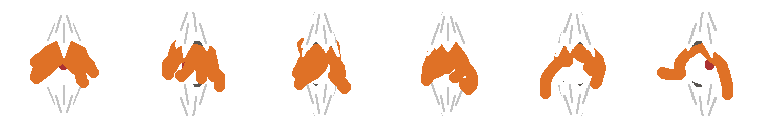
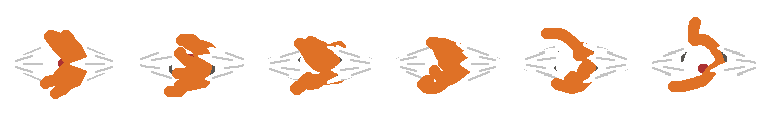
ファンネルのアニメーション(仮)追加

diff --git a/DirectXGame/BossFunnel.cpp b/DirectXGame/BossFunnel.cpp
@@ -3,7 +3,7 @@
 #include "MyMath.h"
 #include <cassert>
 #include <cmath>
-
+#include "Animation.h"
 void BossFunnel::Initialize(uint32_t texture, int type, Vector2& startPos, Vector2& endPos) 
 {
 	// イージング用の座標
@@ -29,14 +29,19 @@ void BossFunnel::Initialize(uint32_t texture, int type, Vector2& startPos, Vecto
 	// 初期化
 	texture_ = texture;
 	pos_ = startPos;
+	animationTimer = 0;
+	animationNumber = 0;
+	animationScene = 6;
+	oneTime = 5;
+	isAnimation = true;
 
 	// スプライトの生成
 	sprite_.reset(Sprite::Create(texture, pos_, {1.0f, 0.0f, 0.0f, 1.0f}, {0.5f, 0.5f}));
 	// サイズ設定
-	sprite_->SetSize({64.0f, 64.0f});
-	radius_ = sprite_->GetSize().x / 2;
-	Vector2 rotateVect = endPos_ - prevPos_;
-	sprite_->SetRotation(std::atan2(rotateVect.y, rotateVect.x));
+	radius_ = 64.0f;
+	sprite_->SetSize({radius_ * 2, radius_ * 2});
+	direction_ = endPos_ - prevPos_;
+	sprite_->SetRotation(std::atan2(direction_.y, direction_.x));
 }
 
 void BossFunnel::Update(Vector2& playerPos) {
@@ -88,17 +93,18 @@ void BossFunnel::Update(Vector2& playerPos) {
 			break;
 		}
 		// 向きの回転
-		Vector2 rotateVect = endPos_ - prevPos_;
-		sprite_->SetRotation(std::atan2(rotateVect.y, rotateVect.x));
+		direction_ = endPos_ - prevPos_;
+		//sprite_->SetRotation(std::atan2(direction_.y, direction_.x));
 		if (turnCount_ == 2) {
 			kMoveSpeed_ = kInitSpeed;
 		}
 	}
-	
+	Animation::Anime(animationTimer, animationNumber, animationScene, oneTime);
+
 	BaseBullet::Update();
 }
 
-void BossFunnel::Draw() { sprite_->Draw(); }
+void BossFunnel::Draw() { BaseBullet::Draw(); }
 
 void BossFunnel::OnCollision() 
 { isDead_ = true; }

diff --git a/DirectXGame/BaseBullet.cpp b/DirectXGame/BaseBullet.cpp
@@ -2,6 +2,7 @@
 #include <cassert>
 #include "Scroll.h"
 #include "TextureManager.h"
+#include "Animation.h"
 
 /// <summary>
 /// 初期化処理
@@ -21,8 +22,7 @@ void BaseBullet::Initialize(uint32_t texture, const Vector2& pos, Vector2 velosi
 void BaseBullet::Update() {
 	// スクロールのインスタンス取得
 	Scroll* scroll = Scroll::GetInstance();
-	//Vector2 ScreenPos;
-//	ScreenPos += ;
+
 	sprite_->SetRotation(std::atan2(direction_.y, direction_.x));
 	// スプライトの位置を設定
 	sprite_->SetPosition(pos_ - scroll->GetAddScroll() + sceneVelo);
@@ -33,7 +33,11 @@ void BaseBullet::Update() {
 /// </summary>
 void BaseBullet::Draw() { 
 	// スプライトの描画処理
-	sprite_->Draw();
+	if (!isAnimation) {
+		sprite_->Draw();
+	} else if (isAnimation) {
+		Animation::DrawAnimation(sprite_.get(), pos_, animationNumber, texture_);
+	}
 }
 
 /// <summary>

diff --git a/DirectXGame/Tail.cpp b/DirectXGame/Tail.cpp
@@ -42,7 +42,7 @@ void Tail::Initialize(uint32_t texture, const Vector2* parent, int tailNo, const
 	    Sprite::Create(charaTex_, {-10.0f, -10.0f}, {1.0f, 1.0f, 1.0f, 1.0f}, {0.5f, 0.5f}));
 
 	// 半径
-	radius_ = 64.0f;
+	radius_ = 48.0f;
 	sprite_->SetSize({radius_ * 2, radius_ * 2});
 }
 
@@ -158,7 +158,7 @@ void Tail::Fire() {
 		// 当たり判定の計算
 		float distance =
 		    std::sqrtf(std::powf(Tail2Marker_distance.x, 2) + std::powf(Tail2Marker_distance.y, 2));
-		float radius = (8 + GetRadius());
+		float radius = (2 + GetRadius());
 
 		if (!player_->IsMove()) {
 			// もし尻尾とマーカーが当たっていれば

diff --git a/DirectXGame/BossEnemy.cpp b/DirectXGame/BossEnemy.cpp
@@ -13,7 +13,7 @@ BossEnemy::BossEnemy() {
 	// 弾
 	bulletTex_ = TextureManager::Load("Bullet.png");
 	// ファンネル
-	funnelTex_ = TextureManager::Load("Player.png");
+	funnelTex_ = TextureManager::Load("Fannel.png");
 }
 
 void BossEnemy::RespownBoss() 

diff --git a/DirectXGame/BaseBullet.h b/DirectXGame/BaseBullet.h
@@ -52,6 +52,12 @@ protected: // メンバ変数
 
 	float bulletSpeed_;
 
+	int animationTimer = 0;
+	int animationNumber = 0;
+	int animationScene = 5;
+	int oneTime = 20;
+	bool isAnimation = false;
+
 public:
 	/// <summary>
 	/// 座標のSetter
